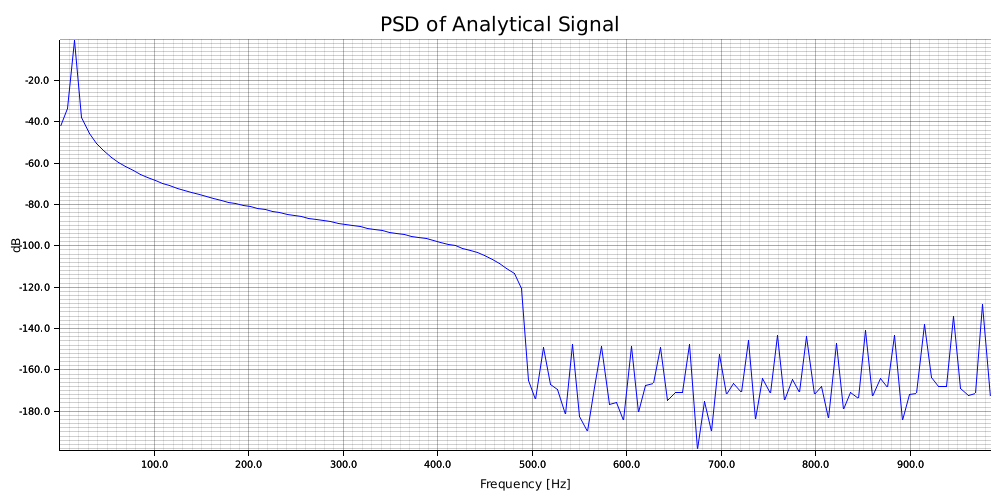
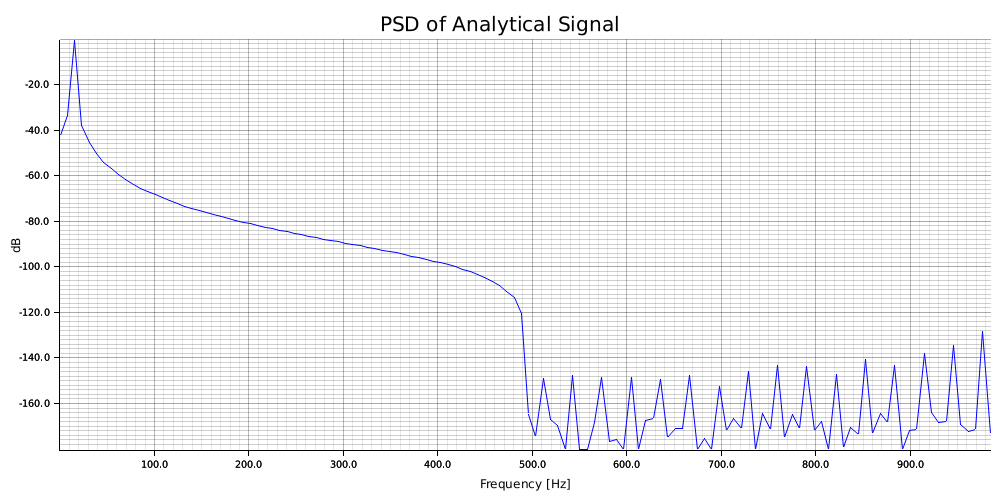
fet: adds Barlett window

Changed region(s): [[0.0, 0.09, 0.992, 0.9]]

diff --git a/src/vec/window.rs b/src/vec/window.rs
@@ -5,9 +5,9 @@
 use crate::*;
 use mixed_num::*;
 
-impl <T: MixedNum + MixedOps + MixedNumConversion<usize> + MixedConsts + MixedCos + MixedOne> Vec<T>
+impl <T: MixedNum + MixedOps + MixedNumConversion<usize> + MixedConsts + MixedCos + MixedZero + MixedOne + MixedAbs> Vec<T>
 {
-    /// Generate a Hammin window funciton.
+    /// Generate a Hamming window funciton.
     /// 
     /// ```
     /// use ndsp::*;
@@ -18,7 +18,7 @@ impl <T: MixedNum + MixedOps + MixedNumConversion<usize> + MixedConsts + MixedCo
     /// vec.simple_plot("./figures/hamming_test.png", "Hamming Window Function");
     /// 
     /// let c_vec = Vec::<Cartesian<f32>>::new_from_real(vec);
-    /// c_vec.plot_psd( 1f32, "./figures/hamming_psd_test.png", "Hamming Window Function" );
+    /// c_vec.plot_psd( 1f32, -180f32, "./figures/hamming_psd_test.png", "Hamming Window Function" );
     /// ```
     /// 
     /// The resulitg plots are shown below.
@@ -34,8 +34,40 @@ impl <T: MixedNum + MixedOps + MixedNumConversion<usize> + MixedConsts + MixedCo
 
         for idx in 0..len {
             let n = T::mixed_from_num(idx);
-            let v = a0 - (T::mixed_one() - a0) * (T::mixed_tau() * n / size).mixed_cos();
-            r_vec.push_back(v);
+            let w = a0 - (T::mixed_one() - a0) * (T::mixed_tau() * n / size).mixed_cos();
+            r_vec.push_back(w);
+        }
+        return r_vec;
+    }
+
+    /// Generate a Barlett window funciton.
+    /// 
+    /// ```
+    /// use ndsp::*;
+    /// use mixed_num::Cartesian;
+    /// 
+    /// let mut vec = Vec::<f32>::barlett(512);
+    /// 
+    /// vec.simple_plot("./figures/barlett_test.png", "Barlett Window Function");
+    /// 
+    /// let c_vec = Vec::<Cartesian<f32>>::new_from_real(vec);
+    /// c_vec.plot_psd( 1f32, -110f32, "./figures/barlett_psd_test.png", "Barlett Window Function" );
+    /// ```
+    /// 
+    /// The resulitg plots are shown below.
+    /// 
+    /// ![Alt version](https://raw.githubusercontent.com/norsk-datateknikk/NDSP/main/figures/barlett_test.png)
+    /// 
+    /// ![Alt version](https://raw.githubusercontent.com/norsk-datateknikk/NDSP/main/figures/barlett_psd_test.png)
+    pub fn barlett(len: usize) -> Self {
+        let mut r_vec = crate::Vec::<T>::new_with_capacity(len);
+        
+        let half_len = T::mixed_from_num(len.clone())/T::mixed_from_num(2usize);
+
+        for idx in 0..len {
+            let n = T::mixed_from_num(idx);
+            let w = T::mixed_one()-((n-half_len)/half_len).mixed_abs();
+            r_vec.push_back(w);
         }
         return r_vec;
     }
@@ -51,7 +83,7 @@ impl <T: MixedNum + MixedOps + MixedNumConversion<usize> + MixedConsts + MixedCo
     /// vec.simple_plot("./figures/blackman_test.png", "Blackman Window Function");
     /// 
     /// let c_vec = Vec::<Cartesian<f32>>::new_from_real(vec);
-    /// c_vec.plot_psd( 1f32, "./figures/blackman_psd_test.png", "Blackman Window Function" );
+    /// c_vec.plot_psd( 1f32, -180f32, "./figures/blackman_psd_test.png", "Blackman Window Function" );
     /// ```
     /// 
     /// The resulitg plots are shown below.
@@ -69,9 +101,9 @@ impl <T: MixedNum + MixedOps + MixedNumConversion<usize> + MixedConsts + MixedCo
 
         for idx in 0..len {
             let n = T::mixed_from_num(idx);
-            let v = a0 - a1 * (T::mixed_tau() * n / size).mixed_cos()
+            let w = a0 - a1 * (T::mixed_tau() * n / size).mixed_cos()
                       + a2 * (T::mixed_from_num(2) * T::mixed_tau() * n / size).mixed_cos();
-            r_vec.push_back(v);
+            r_vec.push_back(w);
         }
         return r_vec;
     }

diff --git a/src/vec/plot.rs b/src/vec/plot.rs
@@ -222,15 +222,16 @@ impl <T:MixedNum + MixedReal + MixedNumSigned + MixedTrigonometry + MixedSqrt + 
     /// 
     /// let signal = Vec::osc(angular_frequency, phase_rad, 256);
     /// 
-    /// signal.plot_psd( f_sample, "./figures/plot_psd.png", "Power Spectral Density" );
+    /// signal.plot_psd( f_sample, -180f32, "./figures/plot_psd.png", "Power Spectral Density" );
     /// ```
     /// 
     /// The resulting plot is shown below.
     /// 
     /// ![Alt version](https://raw.githubusercontent.com/norsk-datateknikk/NDSP/main/figures/plot_psd.png) 
-    pub fn plot_psd( &self, sample_rate_hz: T, path: &str, caption: &str ) -> Result<(), Box<dyn std::error::Error>>
+    pub fn plot_psd( &self, sample_rate_hz: T, floor_db: T, path: &str, caption: &str ) -> Result<(), Box<dyn std::error::Error>>
         where Vec<T>: Decibel<T>,
-              Vec<Cartesian<T>>: Psd<T>
+              Vec<Cartesian<T>>: Psd<T>,
+              f32: MixedNumConversion<T>
     {
         let psd = self.psd();
         let mut psd: Vec<f32> = psd.vec_to_num();
@@ -240,6 +241,8 @@ impl <T:MixedNum + MixedReal + MixedNumSigned + MixedTrigonometry + MixedSqrt + 
 
         let x_vec = Vec::lin_range(0f32, sample_rate_hz-step_hz, psd.len());
         psd.pow2db();
+
+        psd.minimum( floor_db);
     
         x_vec.plot(&psd, path, caption, "Frequency [Hz]", "dB" )
     }

diff --git a/src/vec/math_impl.rs b/src/vec/math_impl.rs
@@ -743,7 +743,7 @@ impl <T: MixedReal + MixedZero + MixedPowi + MixedNumSigned + MixedTrigonometry 
     /// 
     /// signal.hilbert(&mut buffer);
     /// 
-    /// buffer.plot_psd(1e3, "./figures/plot_hilbert.png", "PSD of Analytical Signal");
+    /// buffer.plot_psd(1e3, -180f32, "./figures/plot_hilbert.png", "PSD of Analytical Signal");
     /// 
     /// ```
     /// 

diff --git a/RELEASES.md b/RELEASES.md
@@ -1,5 +1,11 @@
 # Release Notes
 
+## Release 0.2.0 (2021-04-??)
+
+- Breaking change on plot_psd. An aditional argument is taken, this is to handle vectors with -inf values.
+- Adds methot to append vectors.
+- Adds Blackman, triangle and Hamming window functions.
+
 ## Release 0.1.2 (2021-04-25)
 
 - Adds plots and tests for all traits in math_impl.rs.
